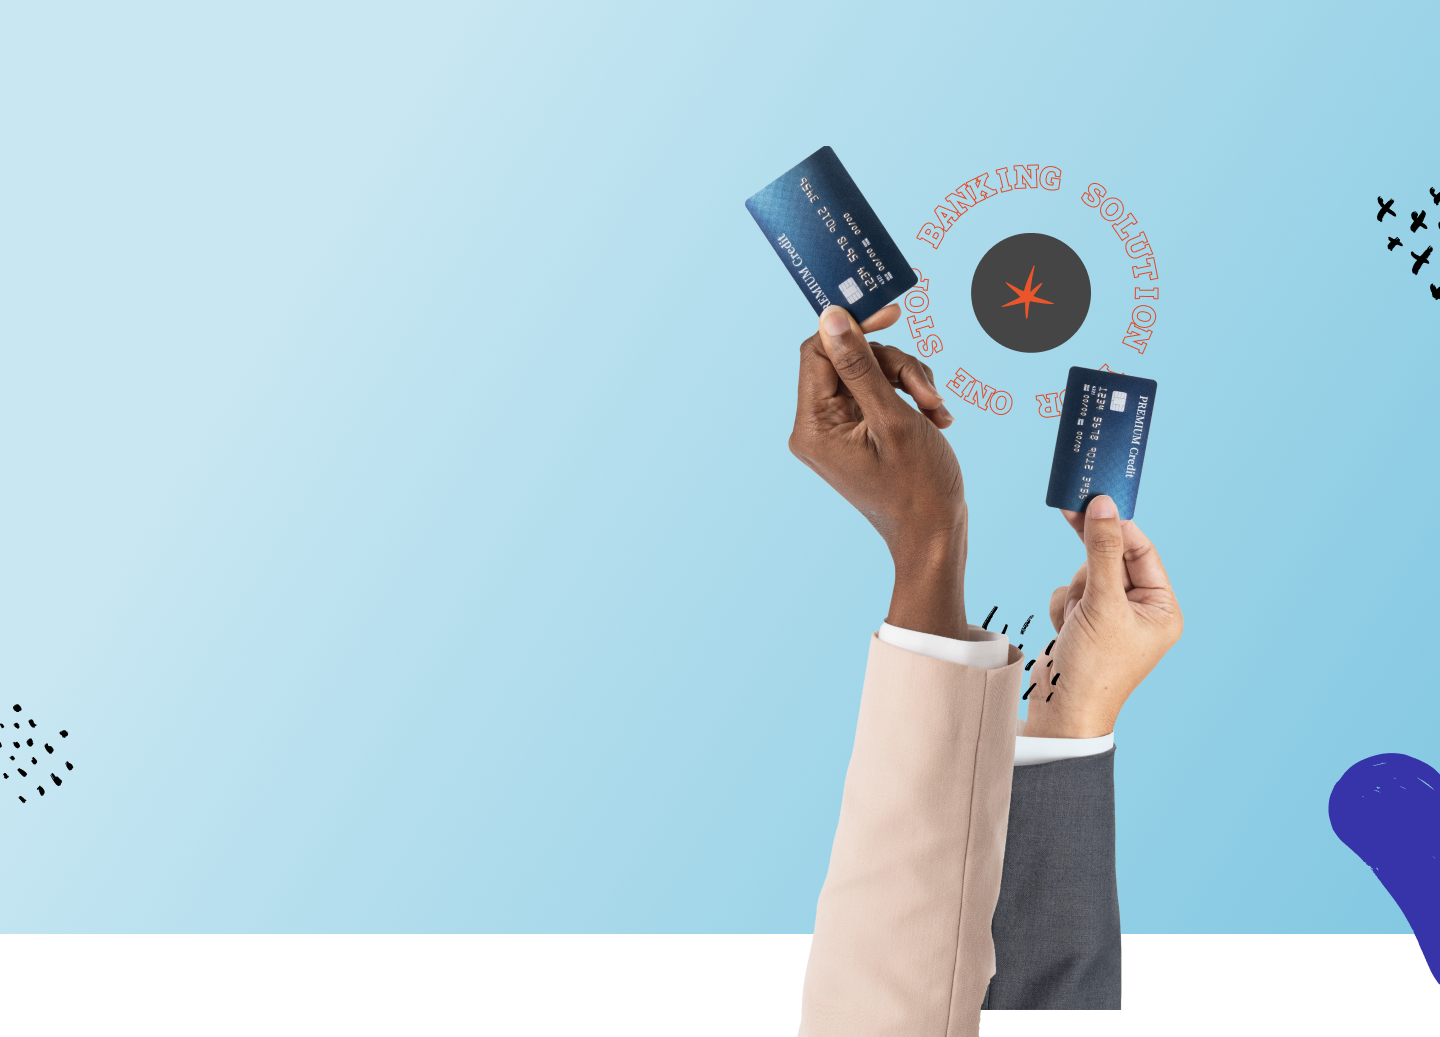
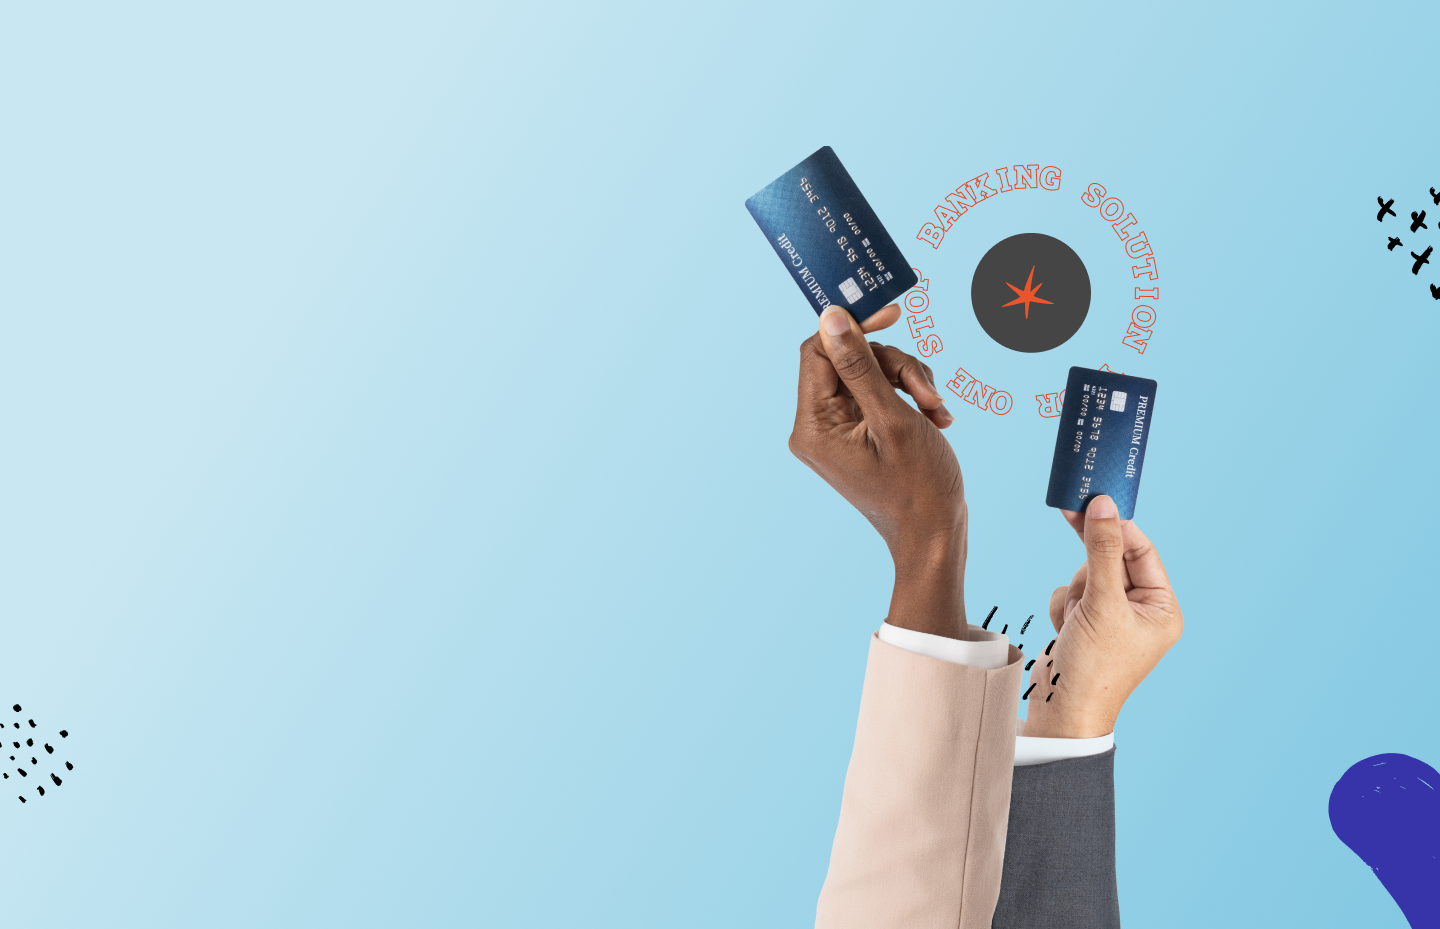
Responsive Heading Section

Changed region(s): [[0.0, 0.1249, 1.0, 1.0], [0.9375, 0.1873, 1.0, 0.3122], [0.0, 0.6868, 0.0312, 0.8428]]

diff --git a/stylesheet/style.css b/stylesheet/style.css
@@ -23,6 +23,18 @@
 @import url("https://fonts.googleapis.com/css2?family=Manrope:wght@200..800&display=swap");
 @import url("https://fonts.googleapis.com/css2?family=Manrope:wght@200..800&display=swap");
 @import url("https://fonts.googleapis.com/css2?family=Manrope:wght@200..800&display=swap");
+@import url("https://fonts.googleapis.com/css2?family=Manrope:wght@200..800&display=swap");
+@import url("https://fonts.googleapis.com/css2?family=Manrope:wght@200..800&display=swap");
+@import url("https://fonts.googleapis.com/css2?family=Manrope:wght@200..800&display=swap");
+@import url("https://fonts.googleapis.com/css2?family=Manrope:wght@200..800&display=swap");
+@import url("https://fonts.googleapis.com/css2?family=Manrope:wght@200..800&display=swap");
+@import url("https://fonts.googleapis.com/css2?family=Manrope:wght@200..800&display=swap");
+@import url("https://fonts.googleapis.com/css2?family=Manrope:wght@200..800&display=swap");
+@import url("https://fonts.googleapis.com/css2?family=Manrope:wght@200..800&display=swap");
+@import url("https://fonts.googleapis.com/css2?family=Manrope:wght@200..800&display=swap");
+@import url("https://fonts.googleapis.com/css2?family=Manrope:wght@200..800&display=swap");
+@import url("https://fonts.googleapis.com/css2?family=Manrope:wght@200..800&display=swap");
+@import url("https://fonts.googleapis.com/css2?family=Manrope:wght@200..800&display=swap");
 @font-face {
   font-family: Gilroy-bold;
   src: url(../assets/fonts/Gilroy-Bold.ttf);
@@ -51,7 +63,8 @@
 header {
   background-image: url(../assets/images/header-background.png);
   background-size: cover;
-  height: 120svh;
+  background-repeat: no-repeat;
+  height: 100svh;
   padding-top: 2svh;
 }
 header .header {
@@ -182,6 +195,59 @@ header .header-content .header-banner-check svg {
   margin-right: 5px;
 }
 
+@media (max-width: 920px) {
+  header {
+    height: 90svh;
+  }
+  header .header .header-links {
+    display: none;
+  }
+  header .header-content .header-main {
+    width: 90%;
+  }
+}
+@media (max-width: 660px) {
+  header {
+    height: 90svh;
+  }
+  header .header-content .header-main, header .header-content .header-subtext {
+    width: 90%;
+    font-size: 2rem;
+  }
+}
+@media (max-width: 520px) {
+  header {
+    height: 80svh;
+  }
+  header .header-content .header-main, header .header-content .header-subtext {
+    width: 90%;
+    font-size: 1.5rem;
+  }
+}
+@media (max-width: 440px) {
+  header {
+    height: 80svh;
+  }
+  header .header-content .header-main, header .header-content .header-subtext {
+    width: 90%;
+    font-size: 1rem;
+  }
+  header .header .header-buttons {
+    display: flex;
+    align-items: center;
+    justify-content: flex-start;
+  }
+  header .header .header-buttons button {
+    height: 2rem;
+    width: 5rem;
+    font-size: 0.55rem;
+  }
+  header .header-content .header-banner-buttons {
+    flex-direction: column;
+    justify-content: flex-start;
+    align-items: flex-start;
+  }
+}
 @font-face {
   font-family: Gilroy-bold;
   src: url(../assets/fonts/Gilroy-Bold.ttf);

diff --git a/stylesheet/section-scss/_header.scss b/stylesheet/section-scss/_header.scss
@@ -7,7 +7,8 @@
 header {
     background-image: url(../assets/images/header-background.png);
     background-size: cover;
-    height: 120svh;
+    background-repeat: no-repeat;
+    height: 100svh;
     padding-top: 2svh;
 
     .header {
@@ -114,3 +115,66 @@ header {
     }
 }
 
+@media (max-width: 920px) {
+    header {
+        height: 90svh;
+
+        .header .header-links {
+            display: none;
+        }
+
+
+        .header-content .header-main {
+            width: 90%;
+        }
+    }
+}
+
+@media (max-width: 660px) {
+    header {
+        height: 90svh;
+
+        .header-content .header-main, .header-content .header-subtext {
+            width: 90%;
+            font-size: 2rem;
+        }
+    }
+}
+
+@media (max-width: 520px) {
+    header {
+        height: 80svh;
+
+        .header-content .header-main, .header-content .header-subtext {
+            width: 90%;
+            font-size: 1.5rem;
+        }
+    }
+}
+
+@media (max-width: 440px) {
+    header {
+        height: 80svh;
+
+        .header-content .header-main, .header-content .header-subtext {
+            width: 90%;
+            font-size: 1rem;
+        }
+
+        .header .header-buttons {
+            @include flex(flex, center, flex-start);
+
+            button {
+                height: 2rem;
+                width: 5rem;
+                font-size: 0.55rem;
+            }
+        }
+
+        .header-content .header-banner-buttons {
+            flex-direction: column;
+            justify-content: flex-start;
+            align-items: flex-start;
+        }
+    }
+}

diff --git a/index.html b/index.html
@@ -8,7 +8,6 @@
     <link rel="stylesheet" href="./stylesheet/style.css">
     <link rel="stylesheet" href="./stylesheet/animations.css">
     <link rel="stylesheet" href="./stylesheet/globalStyle.css">
-    <link rel="stylesheet" href="./stylesheet/headerResponsive.css">
 
     <!-- link JavaScript -->
     <script defer src="./script/animationOnScroll.js"></script>

diff --git a/stylesheet/section-scss/_fonts.scss b/stylesheet/section-scss/_fonts.scss
@@ -1,3 +1,5 @@
+@import url('https://fonts.googleapis.com/css2?family=Manrope:wght@200..800&display=swap');
+
 @import "./variables";
 @import "./mixin";
 
